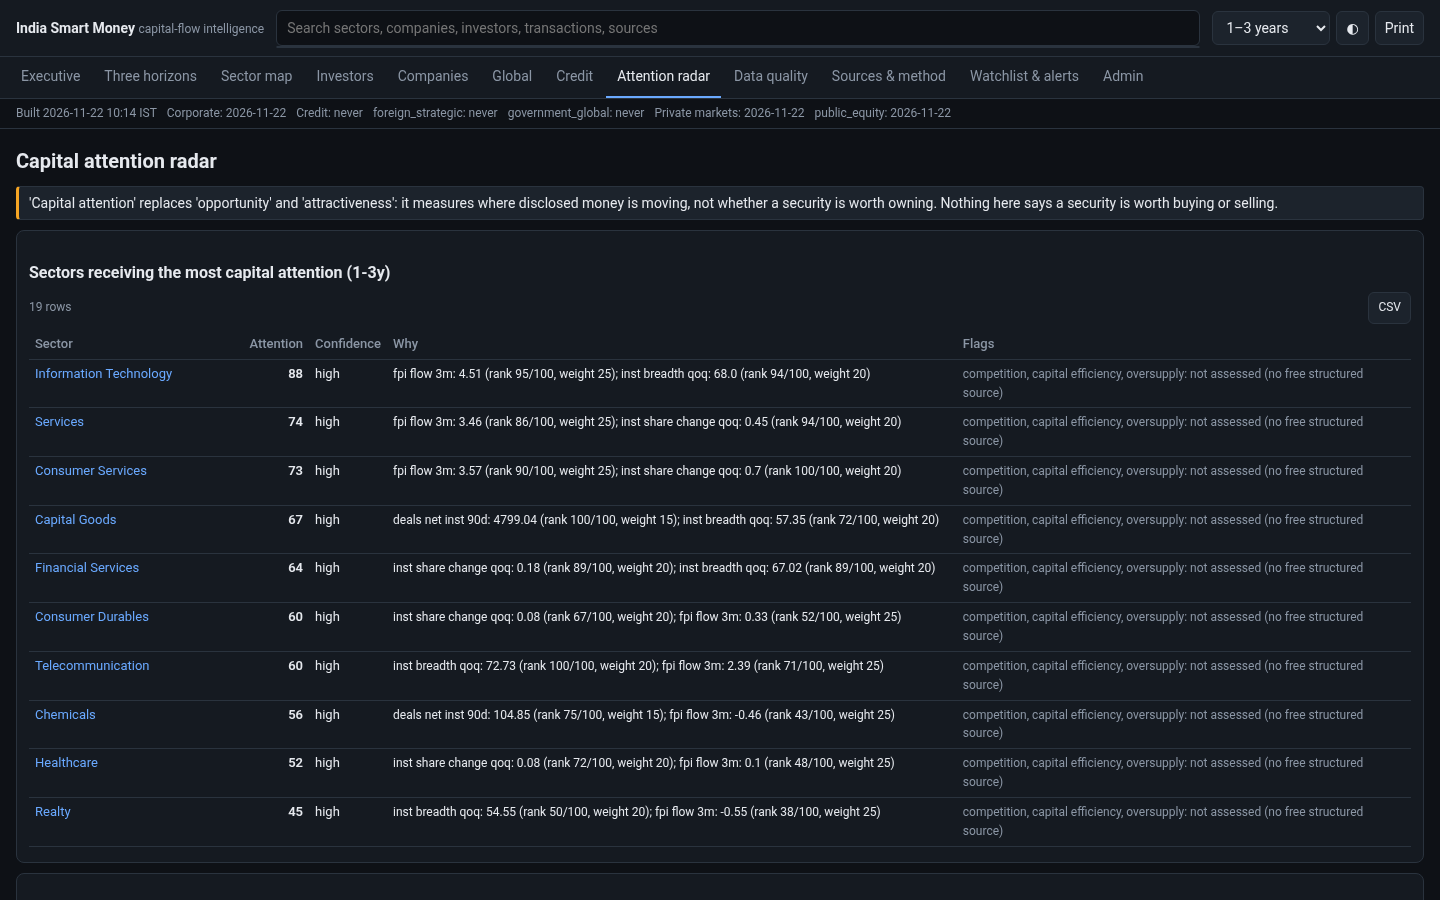
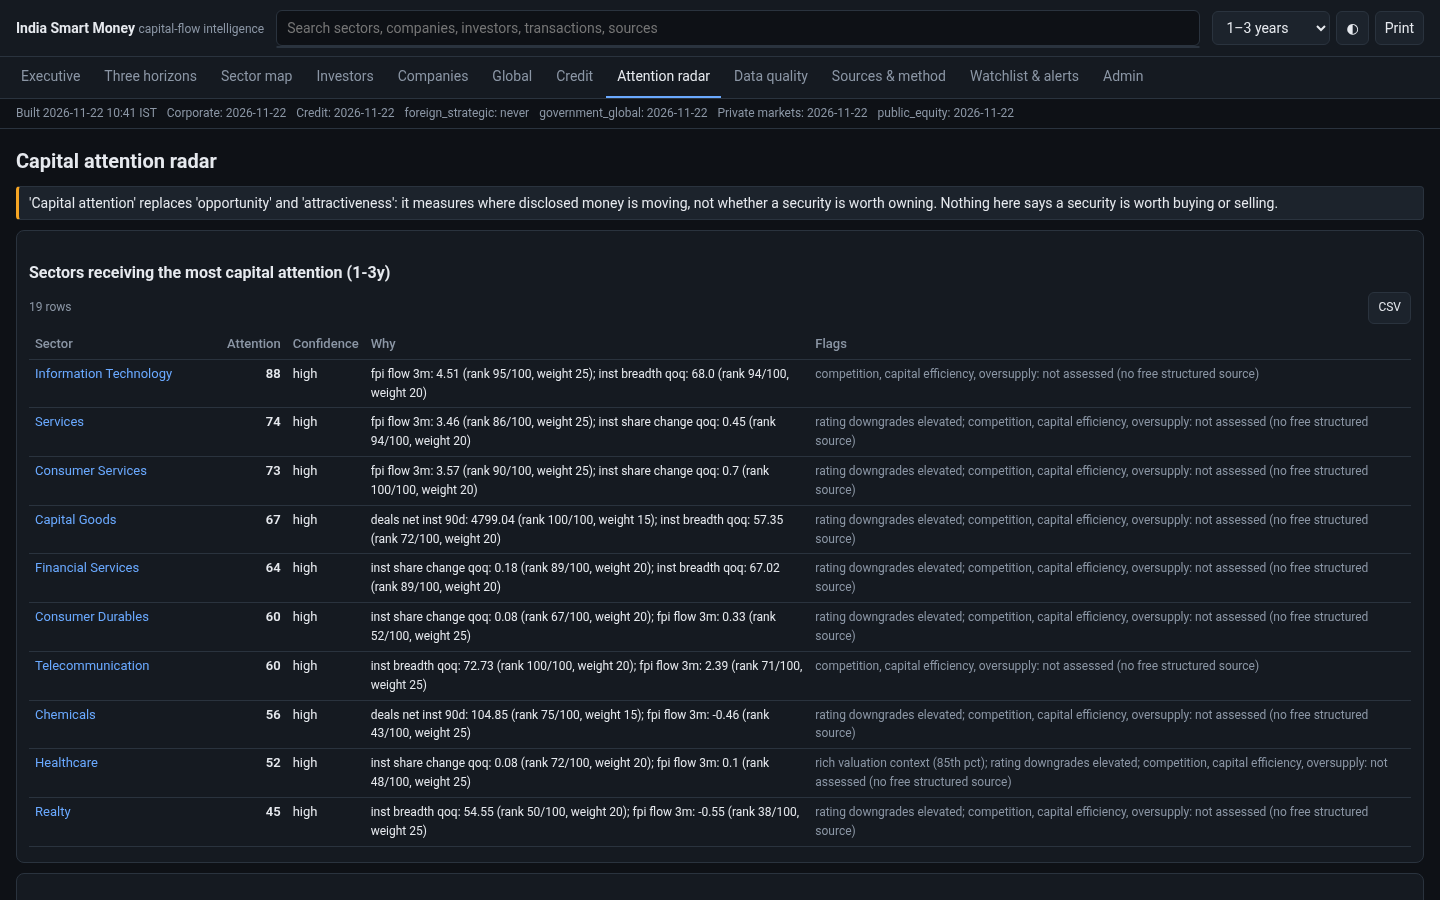
Freshness bar labels; wordcheck handles title-case fund names

Changed region(s): [[0.1562, 0.3733, 0.9688, 0.9333], [0.4688, 0.1244, 0.6562, 0.1556], [0.2812, 0.1244, 0.4375, 0.1556]]

diff --git a/assets/app.js b/assets/app.js
@@ -102,9 +102,9 @@ async function route() {
   window.scrollTo(0, 0);
 }
 function freshBar() {
-  const f = META.freshness, names = { listed_equity: 'Listed equity', private_markets: 'Private markets', strategic_fdi: 'FDI', corporate: 'Corporate', credit: 'Credit', policy: 'Policy', global: 'Global', valuation: 'Valuation', paid: 'Paid sources' };
-  $('#fresh').innerHTML = `<span>Built ${esc(META.generated.slice(0, 16).replace('T', ' '))} IST</span>` + Object.entries(f).filter(([c]) => c !== 'paid').map(([c, v]) =>
-    `<span class="${v.stale_sources.length ? 'stale' : ''}" title="${v.working}/${v.total} sources working${v.stale_sources.length ? '; stale: ' + v.stale_sources.join(', ') : ''}">${esc(names[c] || c)}: ${v.last_success ? esc(v.last_success.slice(0, 10)) : 'never'}${v.stale_sources.length ? ' ⚠ stale' : ''}</span>`).join('');
+  const f = META.freshness, names = { public_equity: 'Listed equity', private_markets: 'Private markets', foreign_strategic: 'FDI / strategic', corporate: 'Corporate', credit: 'Credit', government_global: 'Govt & global' };
+  $('#fresh').innerHTML = `<span>Built ${esc(META.generated.slice(0, 16).replace('T', ' '))} IST</span>` + Object.entries(f).filter(([, v]) => v.working > 0).map(([c, v]) =>
+    `<span class="${v.stale_sources.length ? 'st' : ''}" title="${v.working}/${v.total} sources working${v.stale_sources.length ? '; stale: ' + v.stale_sources.join(', ') : ''}">${esc(names[c] || c)}: ${v.last_success ? esc(v.last_success.slice(0, 10)) : 'never'}${v.stale_sources.length ? ' ⚠ stale' : ''}</span>`).join('');
 }
 let SRCH = null;
 async function initSearch() {

diff --git a/test/wordcheck.py b/test/wordcheck.py
@@ -22,6 +22,7 @@ def scan(text):
     # proper names of disclosed funds (e.g. "XYZ Opportunities Fund", "PI Opportunities AIF") are data, not our wording
     text = re.sub(r"\bself_\w+", " ", text)
     text = re.sub(r"\bOPPORTUNIT[A-Z]*\b", " ", text)  # all-caps = holder name exactly as filed with the exchange
+    text = re.sub(r"(?:\b[A-Z][\w.&'-]*[ \t]+)+Opportunit\w*|\bOpportunit\w*(?:[ \t]+[A-Z][\w.&'-]*)+", " ", text)  # Title-Case fund names
     text = re.sub(r"opportunit\w*[\s_]+(master[\s_]+)?(fund|aif|scheme)", " ", text, flags=re.I)
     text = re.sub(r'"(Investment Attractiveness|Opportunity Radar|Industry opportunity|Company quality|Investor quality)" is renamed', " ", text, flags=re.I)
     return sorted({m.group(0).lower() for w in WORDS for m in re.finditer(w, text, re.I)})
